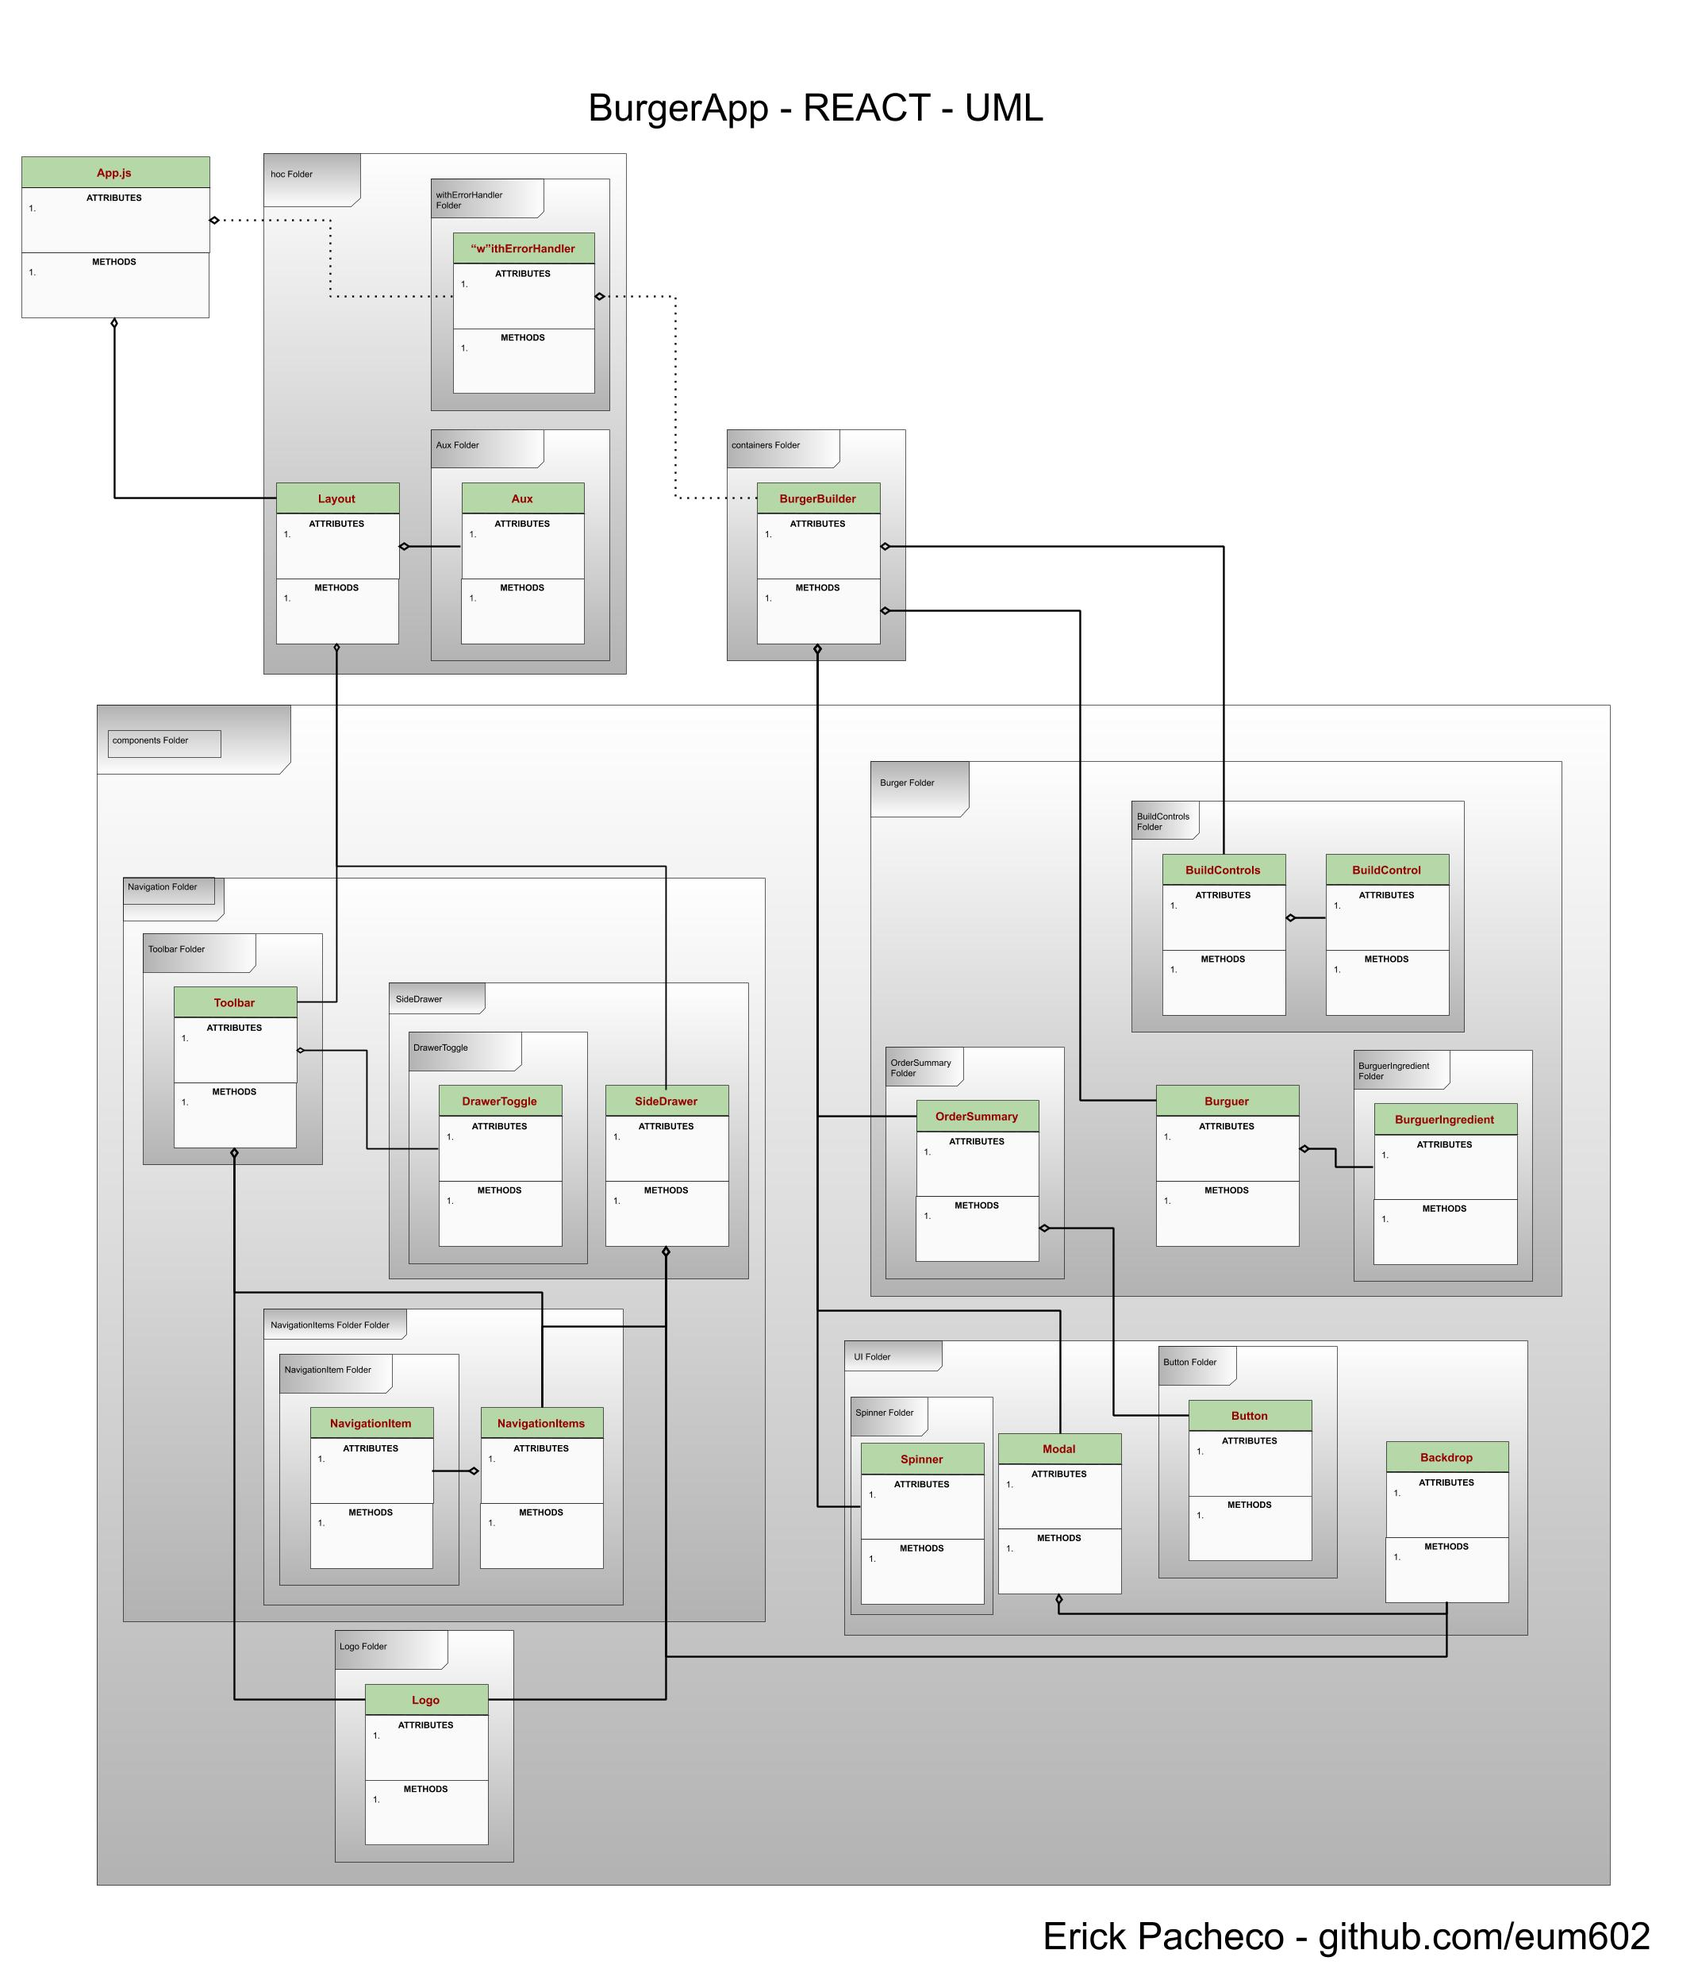
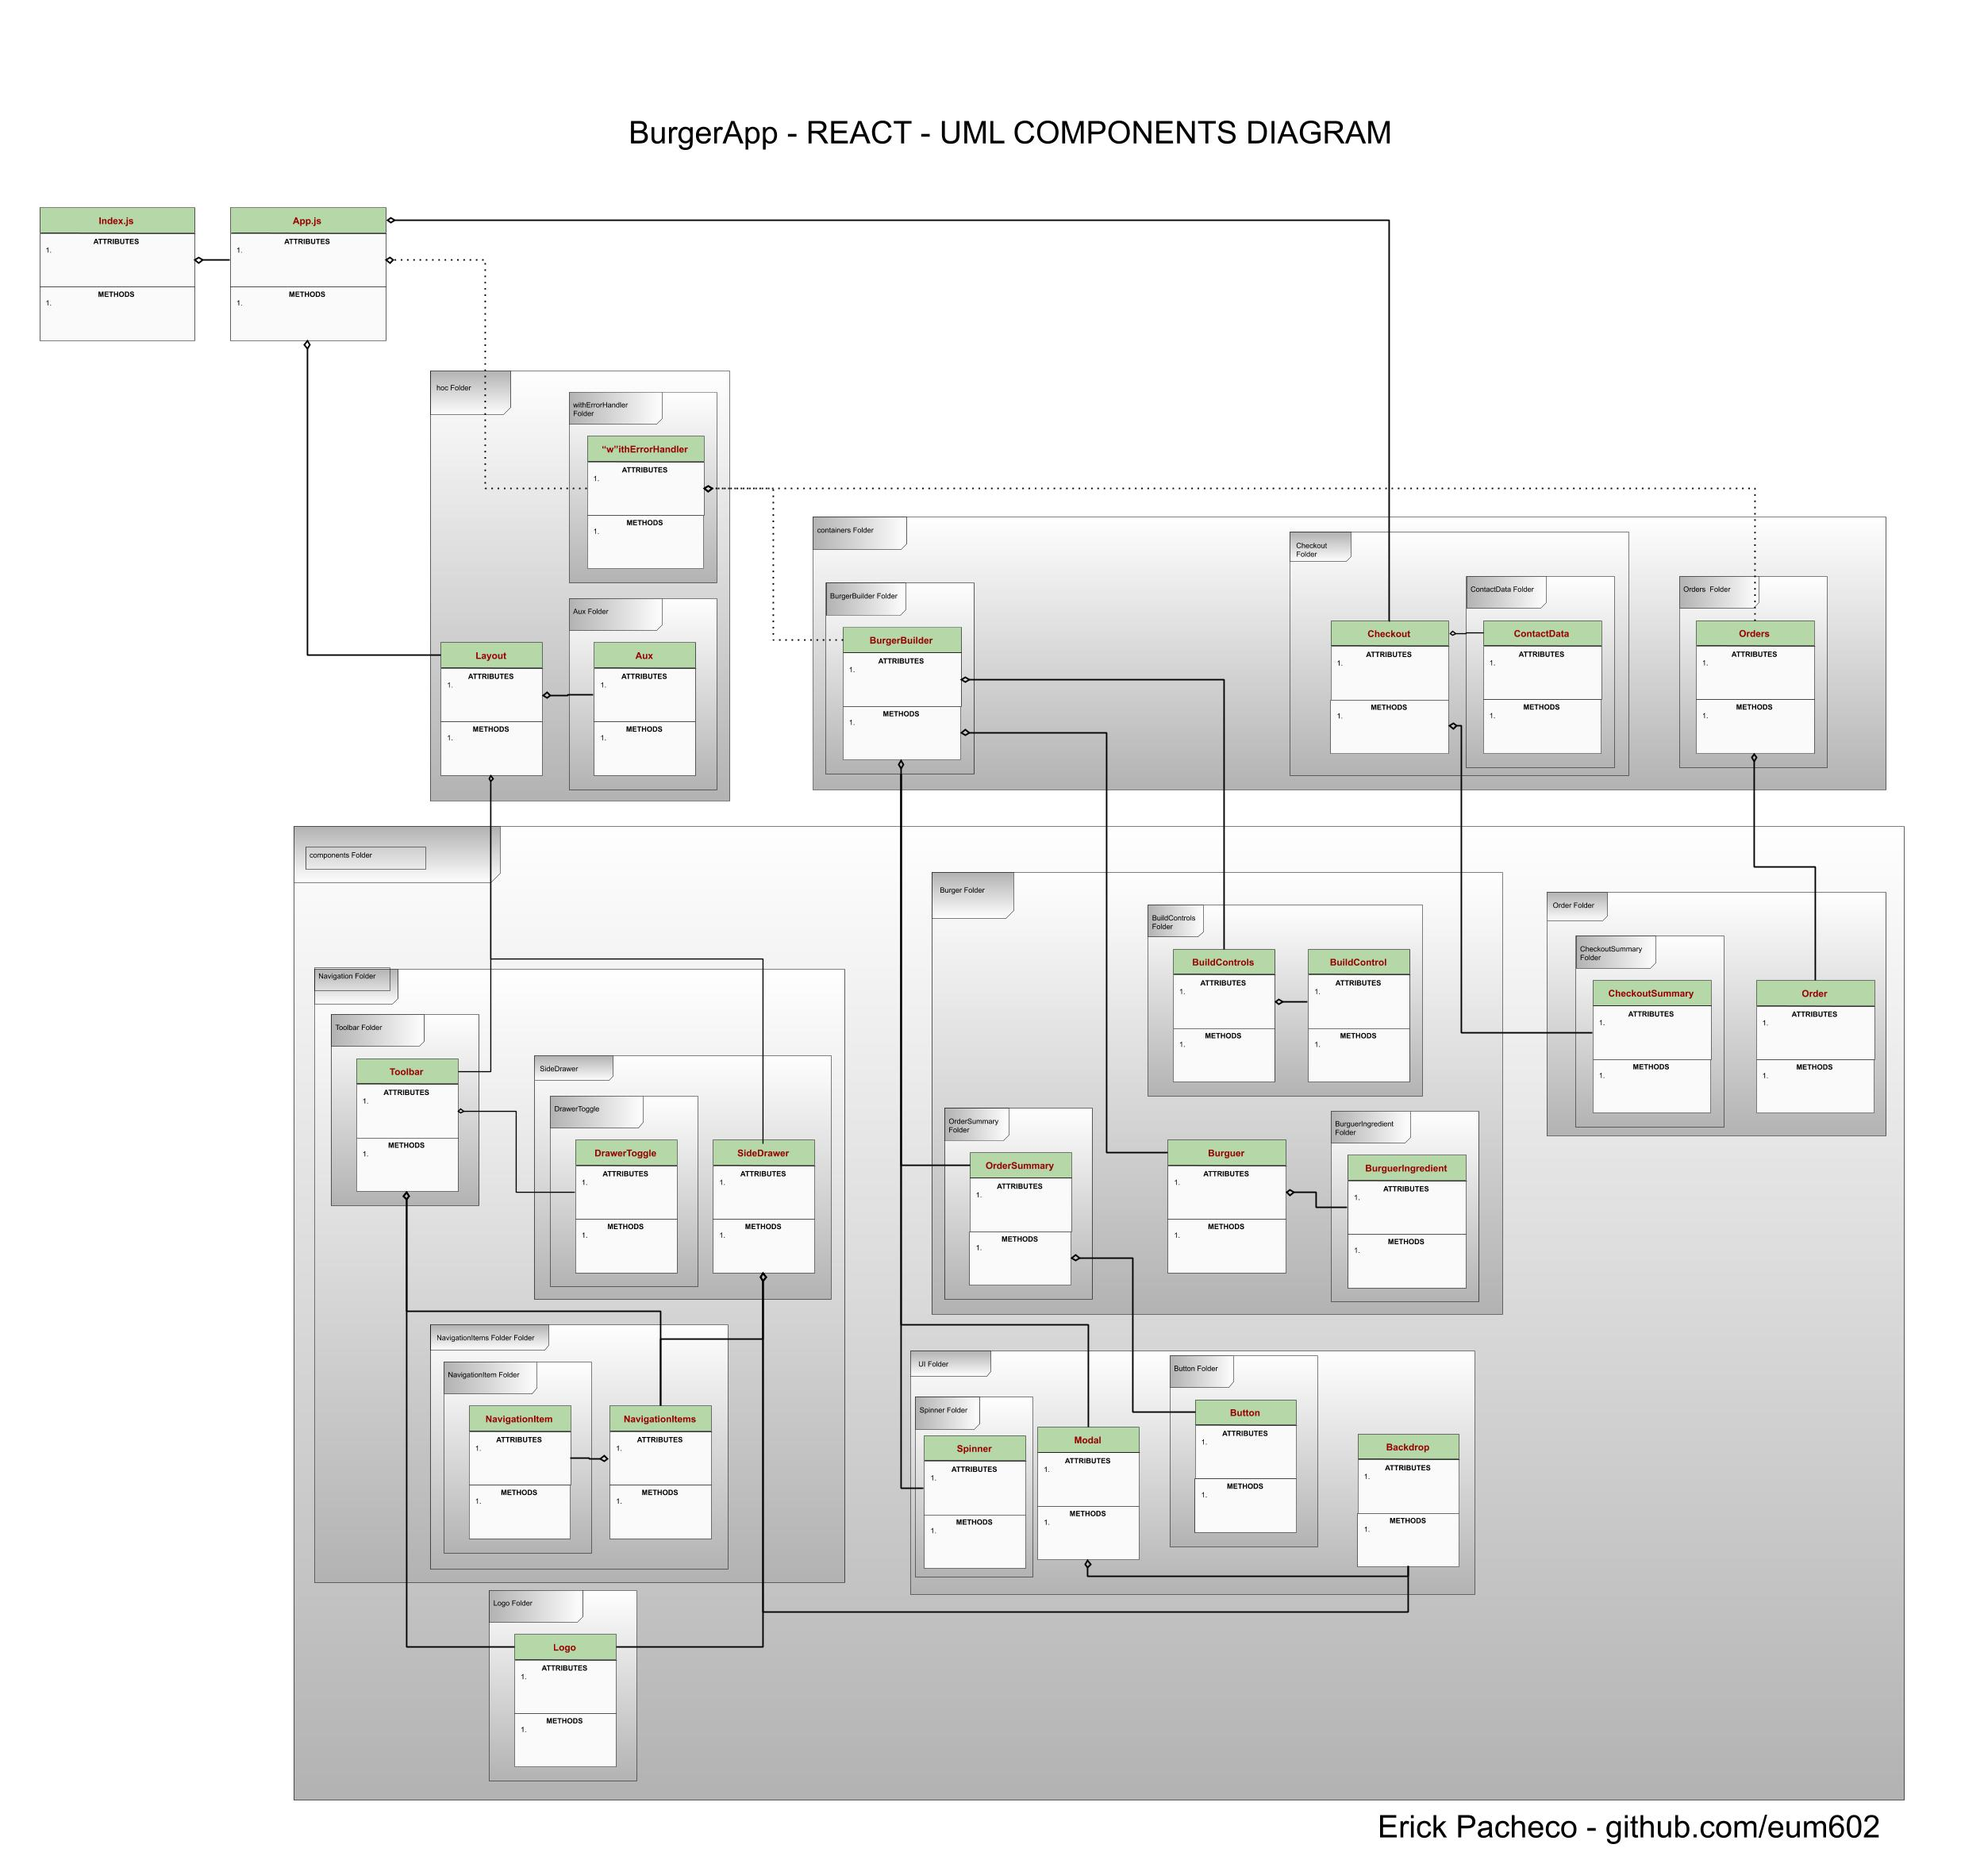
shown orders dynamically - updated UML components diagram

diff --git a/src/components/Order/Order.js b/src/components/Order/Order.js
@@ -1,11 +1,39 @@
 import React from 'react'
 import classes from './Order.css'
 
-const order = props => (
-    <div className={classes.Order}>
-        <p>Ingredients: Salad(1)</p>
-        <p>Price: <strong>USD 5.45 </strong></p>
-    </div>
-)
+const order = props => {
+    const ingredients = []
+    for(let ingredientName in props.ingredients){
+        ingredients.push({
+            name:ingredientName,
+            amount:props.ingredients[ingredientName]
+        })
+    }
+
+    const ingredientOutput = ingredients.map(ig=> {
+        return (
+            <span 
+                style={
+                    {
+                        textTransform:'capitalize',
+                        display:'inline-block',
+                        margin: '0 8px',
+                        border: "1px solid #ccc",
+                        padding:'5px'
+
+                    }
+                }
+                key={ig.name}>
+                {ig.name} ({ig.amount})
+            </span>)
+    })
+
+    return(
+        <div className={classes.Order}>
+            <p>Ingredients: {ingredientOutput}</p>
+            <p>Price: <strong>USD {Number.parseFloat(props.price).toFixed(2)} </strong></p>
+            {/*Number.parseFloat() let us convert to float number, similar to "+" sign */}
+        </div>    
+    )}
 
 export default order

diff --git a/src/containers/Orders/Orders.js b/src/containers/Orders/Orders.js
@@ -1,15 +1,44 @@
 import React, {Component} from 'react'
 import Order from '../../components/Order/Order';
+import axios from '../../axios-orders'
+import withErrorHandler from '../../hoc/withErrorHandler/withErrorHandler'
 
 class Orders extends Component{
+    state={
+        orders:[],
+        loading:true
+    }
+    componentDidMount(){
+        axios.get('/orders.json')
+        .then(res=>{
+            //console.log(res)
+            const fetchedOrders=[]
+            for(let key in res.data){
+                fetchedOrders.push({
+                    ...res.data[key],
+                    id:key
+                })
+            }
+            this.setState({loading:false,orders:fetchedOrders})
+
+        })
+        .catch(e=>{
+            this.setState({loading:false})
+        })
+    }
     render(){
         return(
             <div>
-                <Order/>
-                <Order/>
+                {this.state.orders.map(order=>(
+                    <Order 
+                        key={order.id}
+                        ingredients={order.ingredients}
+                        price={order.price}
+                    />
+                ))}
             </div>
         )
     }
 }
 
-export default Orders
+export default withErrorHandler(Orders,axios)

diff --git a/src/containers/BurgerBuilder/BurgerBuilder.js b/src/containers/BurgerBuilder/BurgerBuilder.js
@@ -87,7 +87,7 @@ class BurgerBuilder extends Component {
         for(let i in this.state.ingredients){
             queryParams.push(`${encodeURIComponent(i)}=${encodeURIComponent(this.state.ingredients[i])}`)
         }
-        queryParams.push(`price=${this.state.totalPrice}=`)//passing also the total price as a query parameter
+        queryParams.push(`price=${this.state.totalPrice}`)//passing also the total price as a query parameter
         const queryString = queryParams.join('&')
         this.props.history.push({
             pathname:"/checkout",

diff --git a/src/components/Order/Order.css b/src/components/Order/Order.css
@@ -1,5 +1,5 @@
 .Order{
-    width: 100%;
+    width: 80%;
     border:1px solid #eee;
     box-shadow: 0 2px 3px #ccc;
     padding: 10px;
